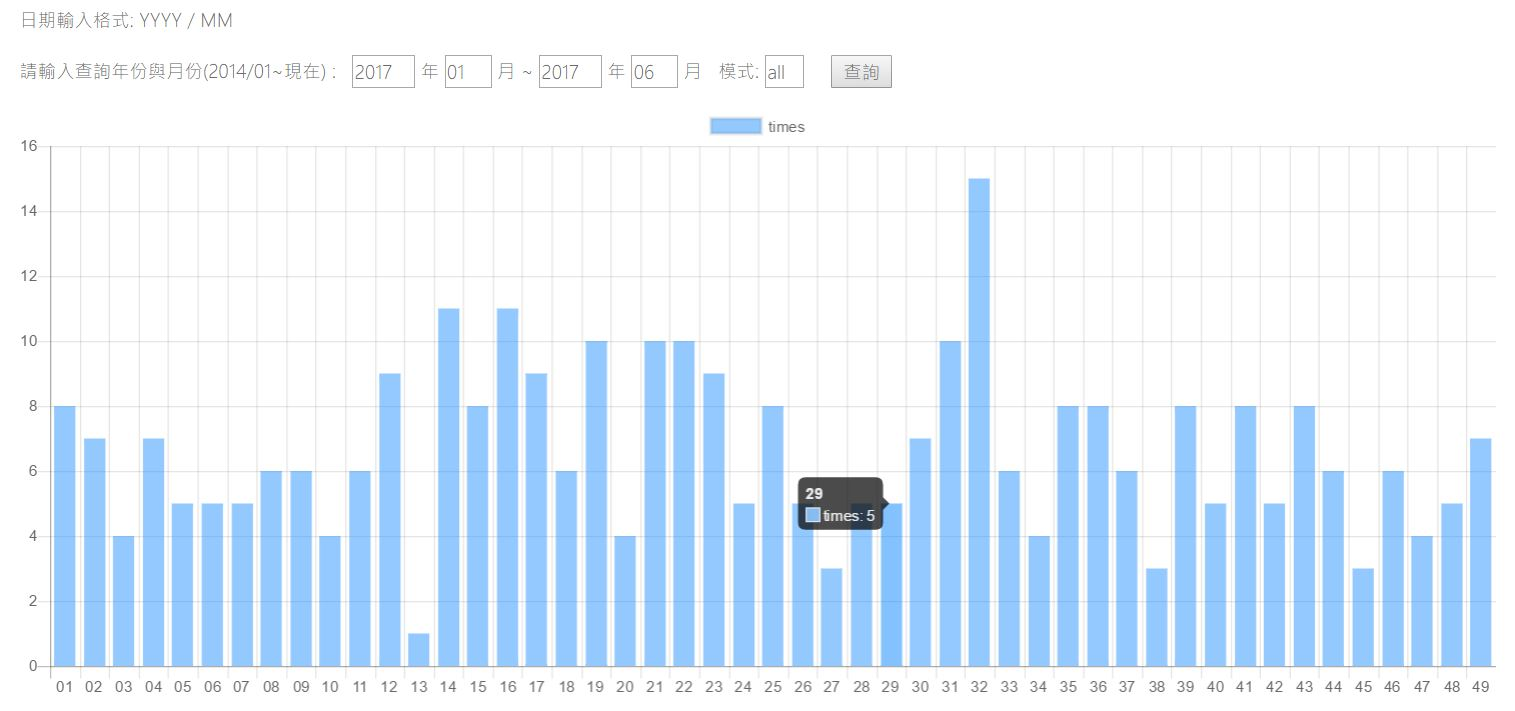
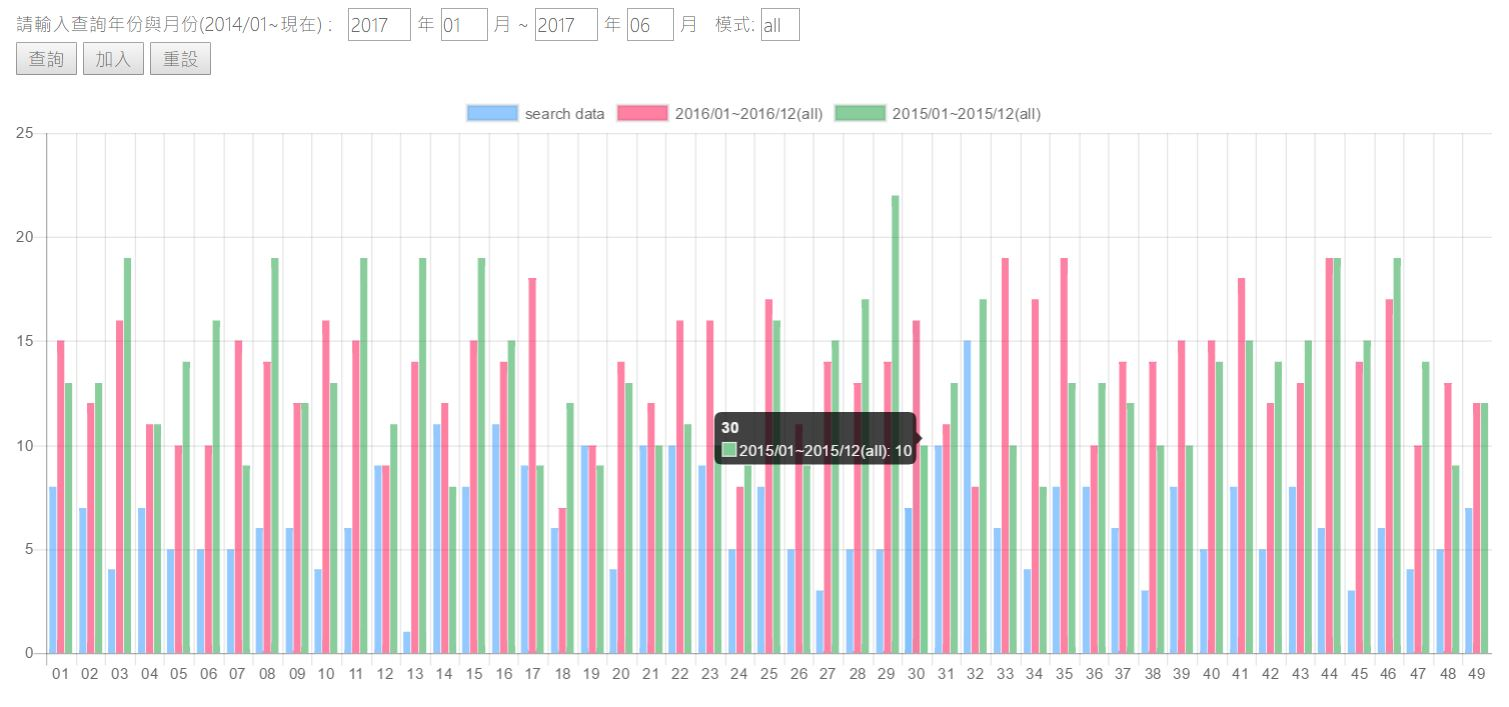
update about.html

diff --git a/about.html b/about.html
@@ -43,11 +43,11 @@
                 <div class="title">
                     <h2>介面</h2>
                     <div style="padding-left:40px; padding-bottom:20px">
-                        <p><img src="http://i.imgur.com/vn1jvsP.jpg" height="500" style="padding-top:20px;" /></p>
+                        <p><img src="http://i.imgur.com/xQD1qQP.jpg" height="500" style="padding-top:20px;" /></p>
                         <h3 style="font-size:20px; padding-top:40px;">輸入</h3>
-                        <p style="padding-top:20px; padding-left:20px">日期輸入格式為: <strong>YYYY / MM</strong> ，模式欄位說明於下方，輸入完成後請按查詢。</p>
-                        <h3 style="font-size:20px; padding-top:20px;">輸出圖表</h3>
-                        <p style="padding-top:20px; padding-left:20px">按下查詢後會出現圖表，將滑鼠停在圖上可以顯示詳細資料。</p>
+                        <p style="padding-top:20px; padding-left:20px">日期輸入格式為: <strong>YYYY / MM</strong> ，模式欄位說明於下方。<br />按 <strong>查詢</strong> ，會將資料顯示於底下名稱為search資料上。<br />按 <strong>加入</strong> ，可將查詢出來的資料以日期和模式為名稱顯示於圖表。 <br />按 <strong>重設</strong> ，可將圖表清除。 </p>
+                        <h3 style="font-size:20px; padding-top:20px;">圖表</h3>
+                        <p style="padding-top:20px; padding-left:20px">點選圖表上方<strong>資料名稱</strong>可以取消顯示此筆資料。<br />將滑鼠停在圖上可以顯示詳細資料。</p>
                     </div>
                     
                 </div>
